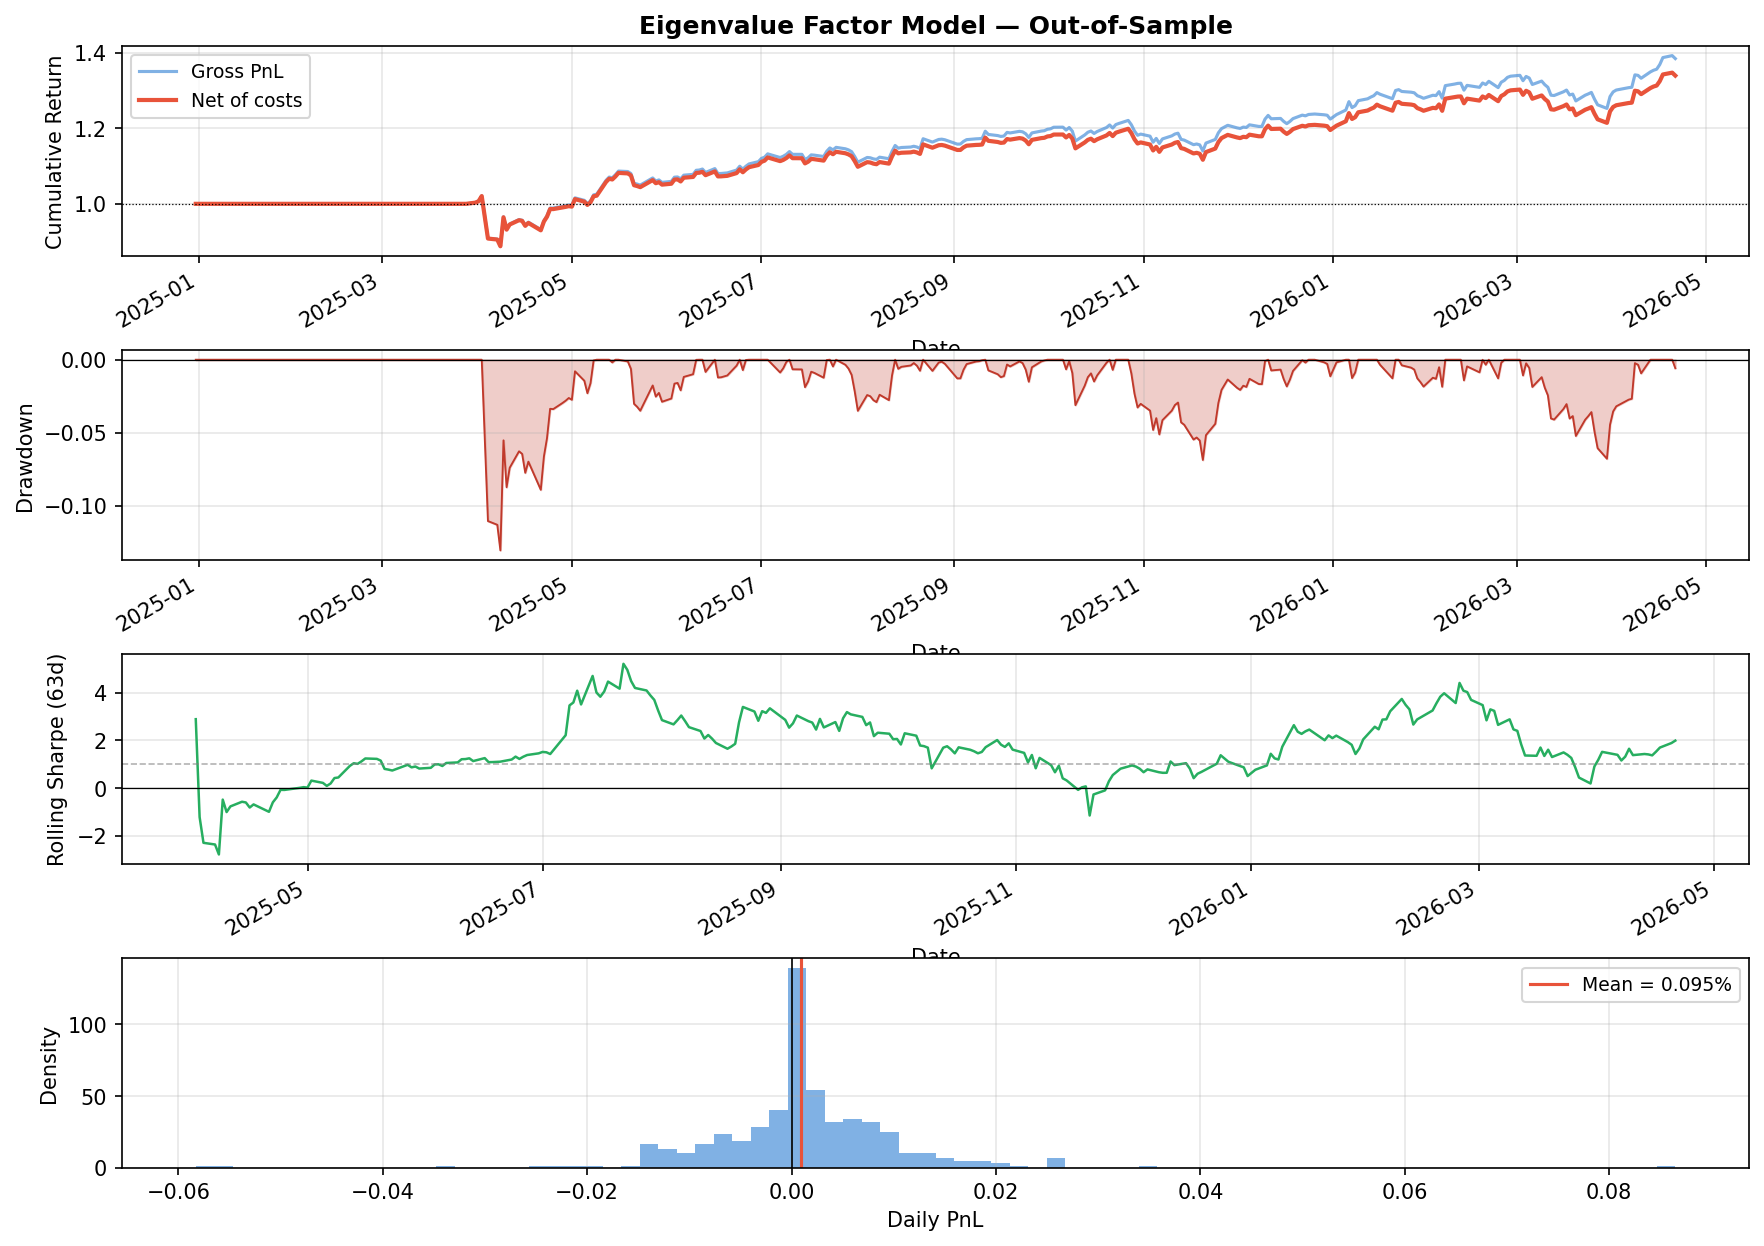
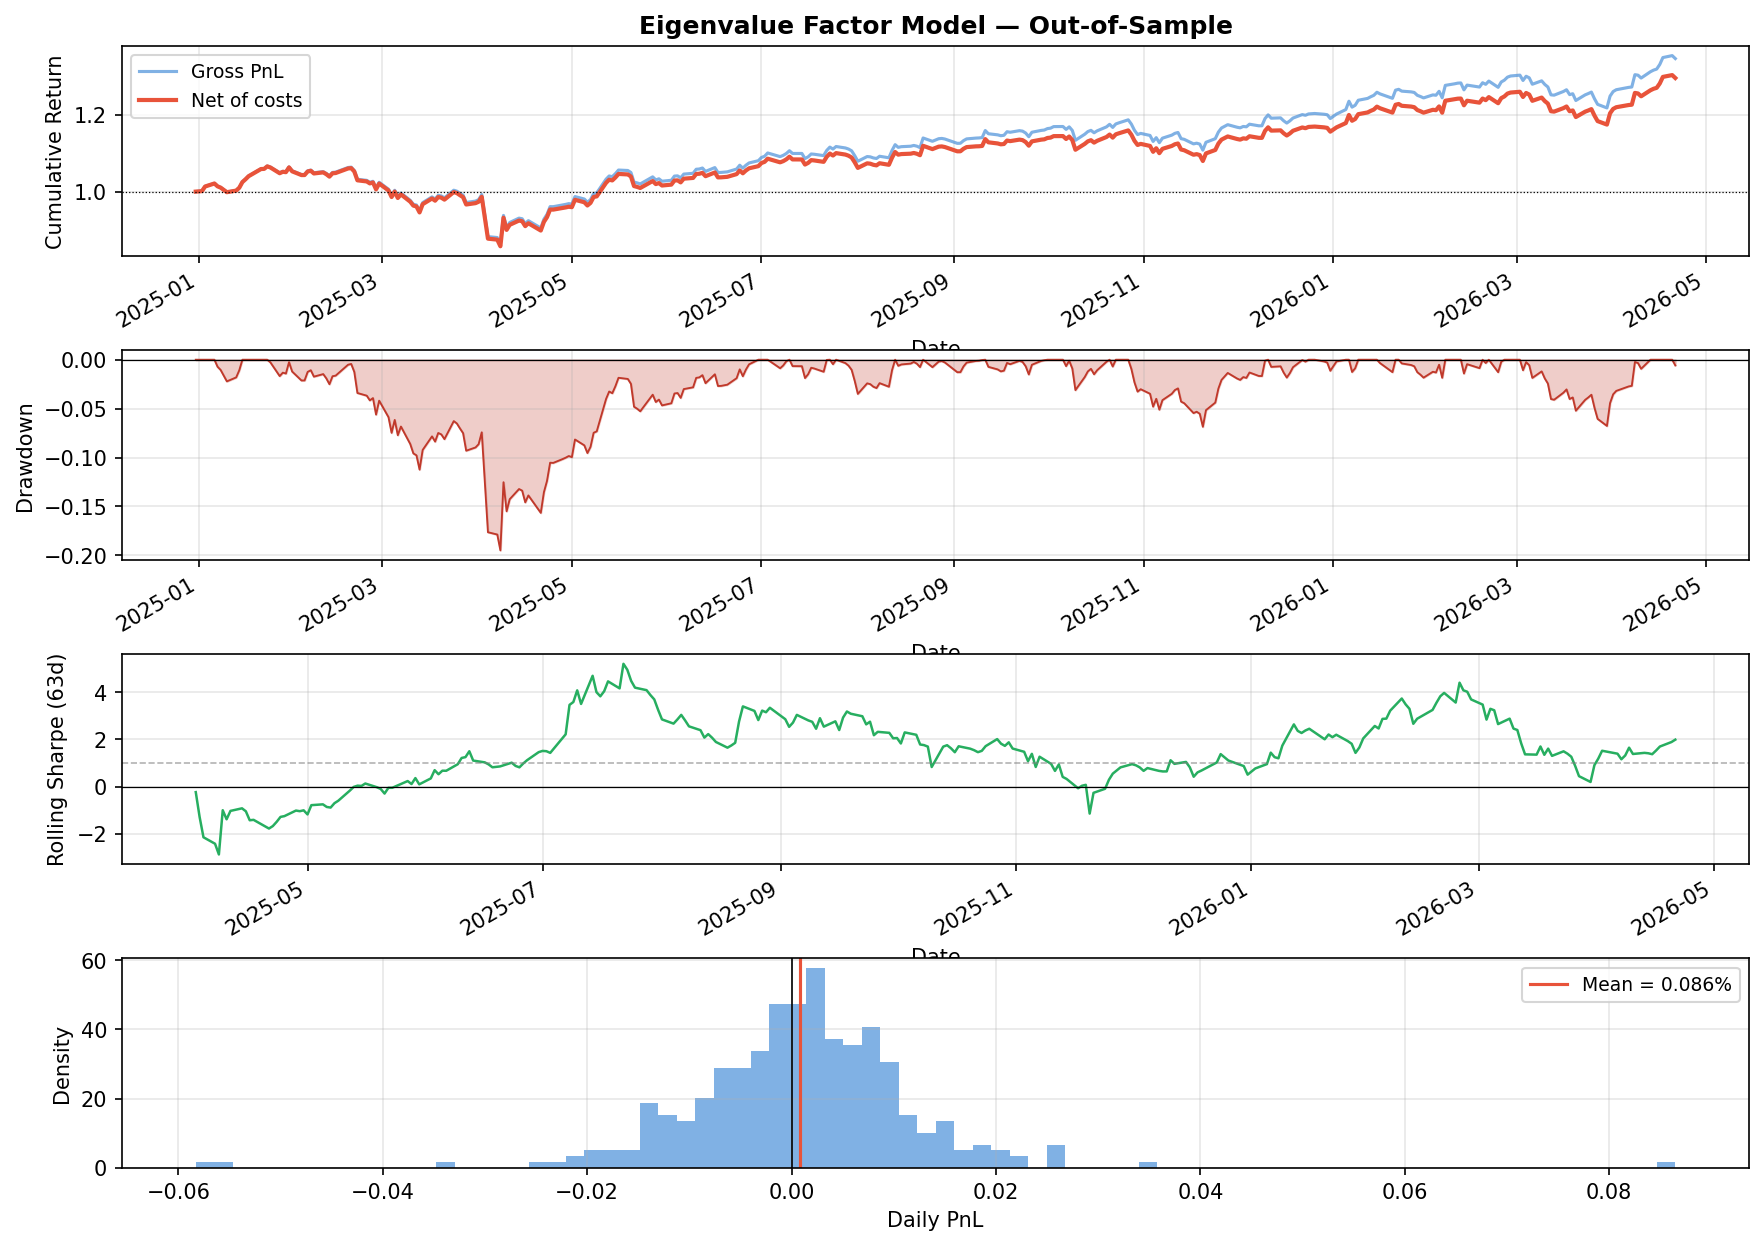
Fixed the bug. Walk forward functions well now

diff --git a/main.py b/main.py
@@ -27,7 +27,7 @@ from src.evaluate   import (
 # ── Config ─────────────────────────────────────────────────────────────────────
 CACHE_PATH   = "data/prices.parquet"
 START_DATE   = "2020-01-01"
-END_DATE     = "2026-04-22"
+END_DATE     = "2026-04-29"
 SPLIT_DATE   = "2024-12-31"
 MR_LOOKBACK  = 20      # mean-reversion z-score window (days)
 MR_DECAY     = 10       # mean-reversion EWM halflife
@@ -124,12 +124,13 @@ mom_train = momentum_signal(train_returns, fast_window=MOM_FAST,
 
 # Blended signal
 # --- NEW: dynamic signal weighting ---
-mr_strength  = mr_train.abs().rolling(60).mean()
-mom_strength = mom_train.abs().rolling(60).mean()
+mr_strength  = mr_train.abs().rolling(60, min_periods=10).mean()
+mom_strength = mom_train.abs().rolling(60, min_periods=10).mean()
 
 total = mr_strength + mom_strength
-w_mr  = mr_strength / total
-w_mom = mom_strength / total
+
+w_mr  = (mr_strength / total).fillna(0.5)
+w_mom = (mom_strength / total).fillna(0.5)
 
 signal_train = w_mr * mr_train + w_mom * mom_train
 
@@ -185,6 +186,9 @@ weights_train = long_short_portfolio(
 bt = Backtester(train_returns, transaction_cost_bps=TC_BPS)
 results_train = bt.run(weights_train)
 full_report(results_train, label="(In-Sample)")
+fig_is = plot_performance(results_train, title="Eigenvalue Factor Model — In-Sample")
+fig_is.savefig("plots/is_performance.png", dpi=150, bbox_inches="tight")
+print("Saved: plots/is_performance.png")
 
 # ── 9. Out-of-sample backtest ──────────────────────────────────────────────────
 print("=" * 60)
@@ -200,12 +204,13 @@ mom_test     = momentum_signal(returns, fast_window=MOM_FAST,
                                 slow_window=MOM_SLOW, skip_days=5)
 mom_test     = mom_test.loc[test_returns.index]   # align to test period
 # --- NEW: dynamic signal weighting ---
-mr_strength  = mr_test.abs().rolling(60).mean()
-mom_strength = mom_test.abs().rolling(60).mean()
+mr_strength  = mr_test.abs().rolling(60, min_periods=10).mean()
+mom_strength = mom_test.abs().rolling(60, min_periods=10).mean()
 
 total = mr_strength + mom_strength
-w_mr  = mr_strength / total
-w_mom = mom_strength / total
+
+w_mr  = (mr_strength / total).fillna(0.5)
+w_mom = (mom_strength / total).fillna(0.5)
 
 signal_test = w_mr * mr_test + w_mom * mom_test
 
@@ -238,17 +243,18 @@ def make_signal(idio_df: pd.DataFrame, full_ret: pd.DataFrame) -> pd.DataFrame:
                            slow_window=MOM_SLOW, skip_days=5)
     
     mom = mom.loc[idio_df.index].fillna(0)
-    mr_strength  = mr.abs().rolling(60).mean()
-    mom_strength = mom.abs().rolling(60).mean()
+    mr_strength  = mr.abs().rolling(60, min_periods=10).mean()
+    mom_strength = mom.abs().rolling(60, min_periods=10).mean()
 
     total = mr_strength + mom_strength
-    w_mr  = mr_strength / total
-    w_mom = mom_strength / total
+
+    w_mr  = (mr_strength / total).fillna(0.5)
+    w_mom = (mom_strength / total).fillna(0.5)
 
     signal = w_mr * mr + w_mom * mom
 
     # 🔥 KEY LINE: drop warmup period
-    signal = signal.iloc[WARMUP:]
+    #signal = signal.iloc[WARMUP:]
     
     return signal.fillna(0)
 

diff --git a/src/portfolio.py b/src/portfolio.py
@@ -137,8 +137,6 @@ def long_short_portfolio(
         else:
             new_weights = lambda_ * target + (1 - lambda_) * prev_weights
 
-        if np.random.rand() < 0.01:
-            print("DEBUG WEIGHT ABS SUM:", new_weights.abs().sum())
         weights.loc[date] = new_weights
         prev_weights = new_weights
 
